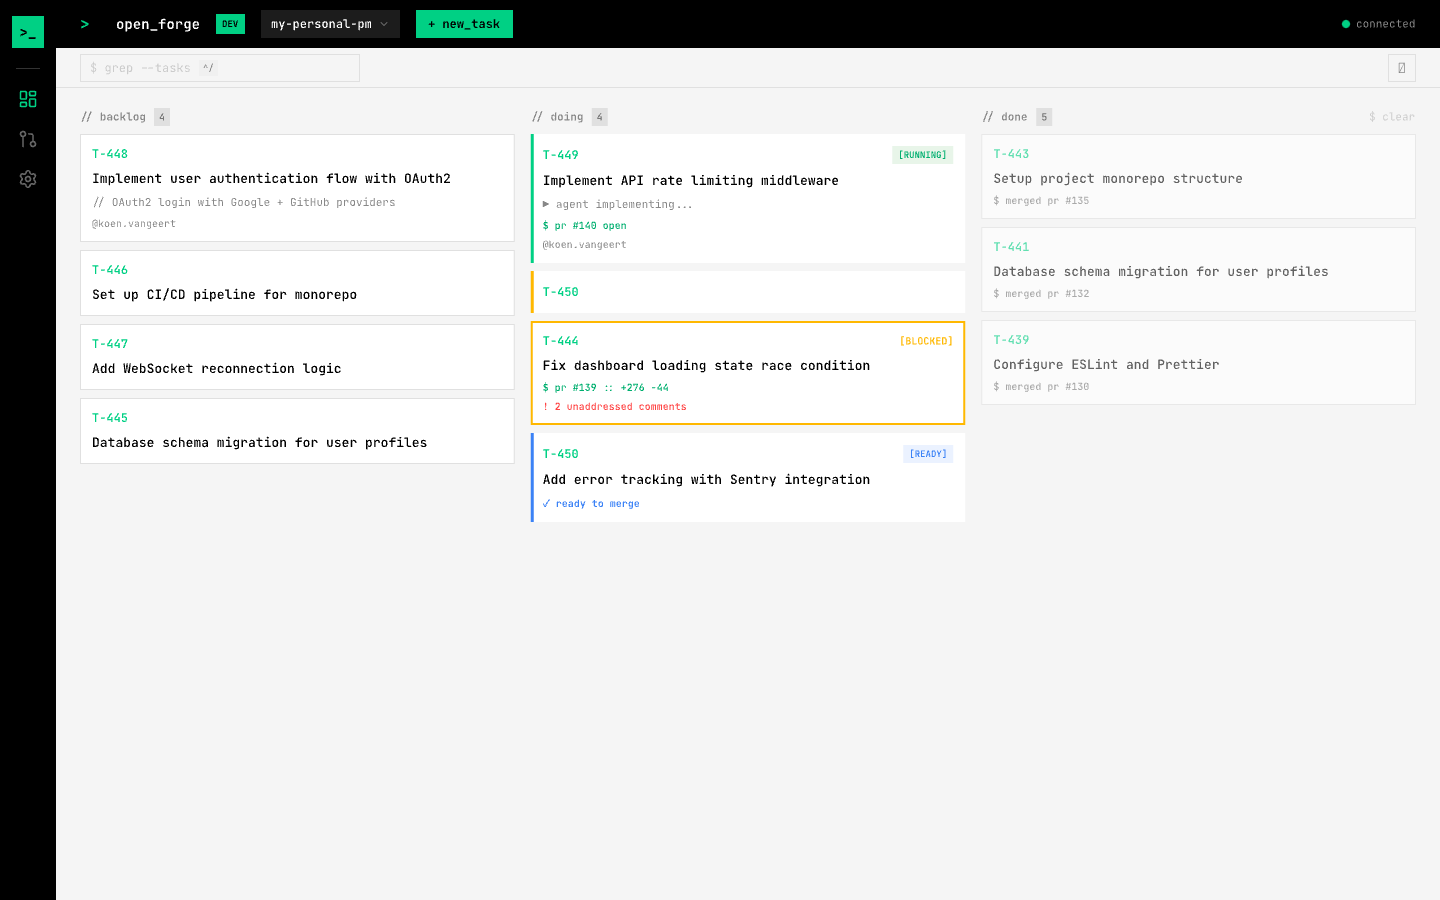
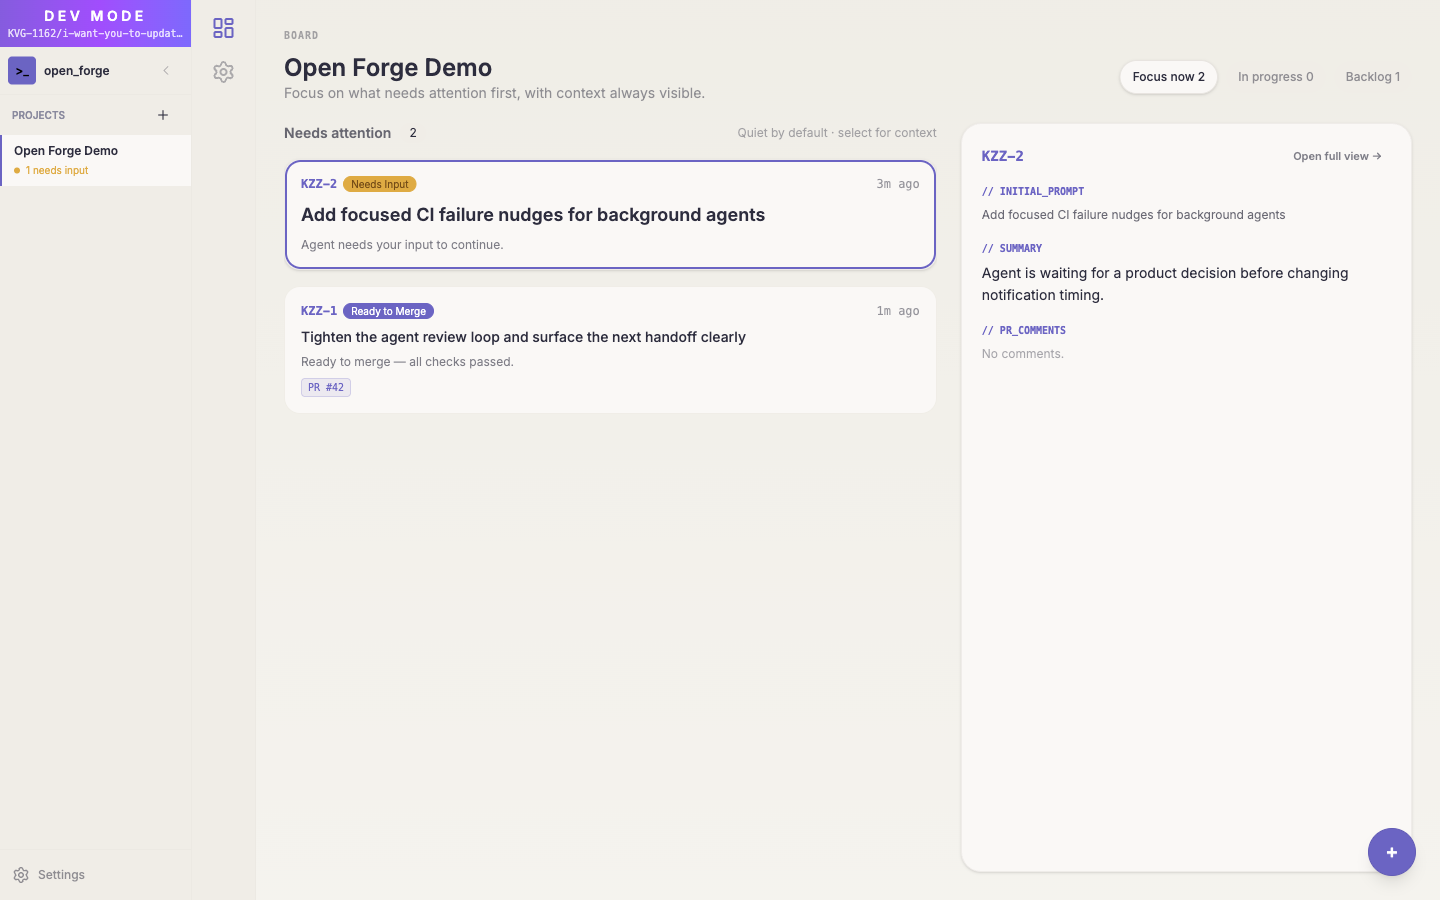
docs: refresh README positioning and screenshots

diff --git a/README.md b/README.md
@@ -5,12 +5,61 @@
 <h1 align="center">Open Forge</h1>
 
 <p align="center">
-  A desktop app that orchestrates AI coding agents. Manage tasks on a focused board, launch agents in isolated git worktrees, and review their work — all from one place.
+  A calm desktop command center for AI-assisted development. Turn a task into an isolated agent run, watch the terminal, review the diff, and decide what ships — without losing the thread.
+</p>
+
+<p align="center">
+  <a href="#quick-install">Install</a> ·
+  <a href="#why-open-forge-exists">Why it exists</a> ·
+  <a href="#what-it-does-today">Features</a> ·
+  <a href="#local-development">Development</a>
 </p>
 
 ---
 
 ![Open Forge — Board](docs/images/board.png)
+
+## Why Open Forge exists
+
+AI coding agents are good at producing code, but the surrounding workflow still creates admin: writing tasks, choosing the right project, starting the agent, watching for handoffs, checking CI, reading diffs, giving feedback, and deciding whether the work is actually good.
+
+Open Forge exists to put that loop in one focused place. It is not trying to replace engineering judgment or turn software work into a black box. It is a local-first operator console for people who want AI help while keeping ownership of the task, context, review, and final decision.
+
+The product direction follows the same thinking Koen writes about on [koenvg.be](https://koenvg.be/): remove unnecessary friction, keep tools calm and understandable, and avoid outsourcing the judgment that keeps the “thinking muscle” sharp. The goal is speed with trust, not speed that creates a pile of work you no longer understand.
+
+## Philosophy
+
+- **Clarity first.** A good tool should make the next action obvious. Open Forge favors a focused board, explicit task state, and visible agent output over a noisy dashboard.
+- **Human judgment stays central.** Agents can implement, summarize, and review, but the developer still owns the problem framing and the shipping decision.
+- **Friction should be intentional.** Repeated admin belongs in the tool; important thinking, review, and trade-off calls should stay visible.
+- **Local workflows should feel solid.** Worktrees, SQLite state, local credentials, terminals, and the Rust sidecar are designed so the app can coordinate real development work without sending your workflow through a hosted control plane.
+- **Fast feedback beats clever ceremony.** Tasks, terminals, self-review, PR review, and CI status sit close together so you can tighten the loop quickly.
+
+## What it does today
+
+Open Forge is a macOS desktop app for running AI coding agents across one or more projects while keeping attention on the current actionable item.
+
+| Area | What Open Forge provides |
+|---|---|
+| **Flow board** | Create, prioritize, search, and move tasks from a focused board with an always-visible detail pane and keyboard navigation. |
+| **Agent runs** | Start Claude Code, OpenCode, or Pi-based agents per task. Each run gets an isolated git worktree and branch. |
+| **Live terminals** | Watch embedded PTY output, use multiple shell tabs, and keep agent lifecycle state attached to the task. |
+| **Self-review** | Inspect agent changes in a syntax-highlighted diff viewer, leave inline feedback, and send that feedback back into the loop. |
+| **PR review** | Review GitHub pull requests assigned to you, browse diffs and comments, submit reviews, and keep CI/review status in sync. |
+| **Project attention** | Track meaningful handoffs — blocked agents, review readiness, CI changes, and tasks that need a decision — without constant noise. |
+| **Plugins and skills** | Extend the desktop surface with managed plugins and reusable agent skills. |
+| **Voice input** | Dictate instructions with on-device Whisper transcription when speaking is faster than typing. |
+| **OpenForge CLI** | Let agents and scripts read/update tasks through the local Open Forge bridge. |
+
+## The workflow in pictures
+
+| Board | Task detail |
+|---|---|
+| ![Open Forge board showing focused task flow](docs/images/board.png) | ![Open Forge task view with agent terminal and task details](docs/images/task-view.png) |
+
+| Self-review |
+|---|
+| ![Open Forge self-review diff view](docs/images/self-review.png) |
 
 ## Quick install
 
@@ -59,36 +108,20 @@ openforge update-task --task-id T-123 --summary "Done"
 
 The CLI talks to the local Open Forge HTTP bridge and is used by the auto-installed provider skills.
 
-## What it does
-
-Open Forge is a command center for AI-assisted development. You define coding tasks, an AI agent (Claude Code or OpenCode) implements them in isolated git worktrees on dedicated branches, and the app tracks the full lifecycle: agent progress, CI status, and PR reviews.
-
-| | |
-|---|---|
-| **Flow board** | Prioritize work from a focused list with an always-visible detail pane. Search, create, and manage tasks with keyboard shortcuts. |
-| **AI agents** | Launch Claude Code or OpenCode agents per task. Each runs in its own git worktree and branch with a live embedded terminal. |
-| **Self-review** | Review agent changes with a syntax-highlighted diff viewer. Leave inline comments and send feedback back to the agent. |
-| **PR review** | Review pull requests assigned to you. Browse diffs, leave comments, and submit reviews directly from the app. |
-| **GitHub** | Background polling keeps PR status and CI checks in sync. |
-| **Voice input** | Dictate instructions to the agent using on-device speech recognition (Whisper). |
-
-![Open Forge — Task View](docs/images/task-view.png)
-
-![Open Forge — Self-Review](docs/images/self-review.png)
-
 ## Tech stack
 
 - **Frontend** — Svelte 5, TypeScript, Tailwind CSS v4, daisyUI v5
 - **Desktop shell** — Electron/Chromium main + sandboxed preload
 - **Backend** — Rust sidecar, SQLite
-- **AI agents** — Claude Code CLI (via PTY), OpenCode (via HTTP/SSE)
+- **AI agents** — Claude Code CLI, OpenCode, and Pi provider integration
+- **Plugin platform** — OpenForge plugin SDK with built-in plugin workspace
 
 ## Prerequisites
 
 - [Rust](https://rustup.rs/) (1.77+)
 - [Node.js](https://nodejs.org/) (20+) and [pnpm](https://pnpm.io/) (10+)
 - macOS with Xcode Command Line Tools (for Metal/Whisper support)
-- [Claude Code](https://docs.anthropic.com/en/docs/claude-code) or [OpenCode](https://github.com/opencode-ai/opencode) installed
+- At least one supported coding agent/provider, such as [Claude Code](https://docs.anthropic.com/en/docs/claude-code), [OpenCode](https://github.com/opencode-ai/opencode), or Pi
 
 ## Local development
 
@@ -160,4 +193,4 @@ pnpm electron:install
 1. Launch the app — the project setup dialog appears automatically
 2. Go to **Settings > Global** to configure your AI provider and GitHub token
 3. Go to **Settings > Project** to set the GitHub repo
-4. Create a task (`Cmd+T`), right-click it, and choose **Start Implementation**
+4. Create a task (`Cmd+T`), right-click it, and choose **Start Task**